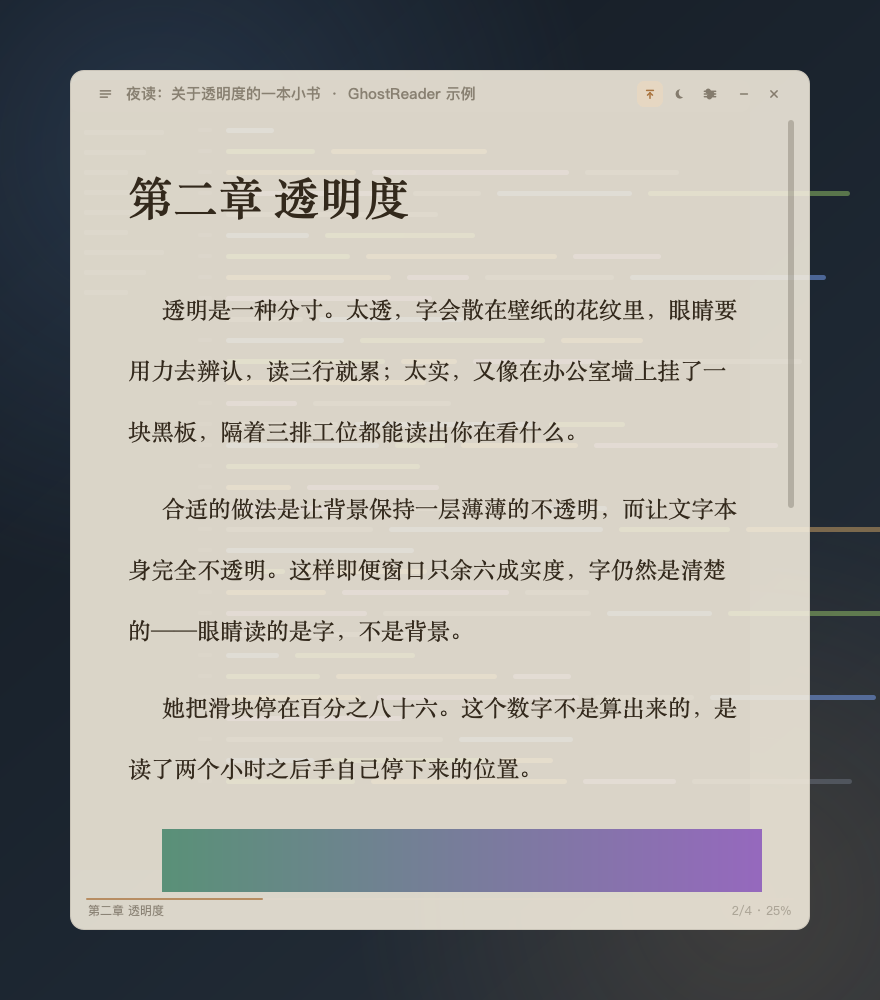
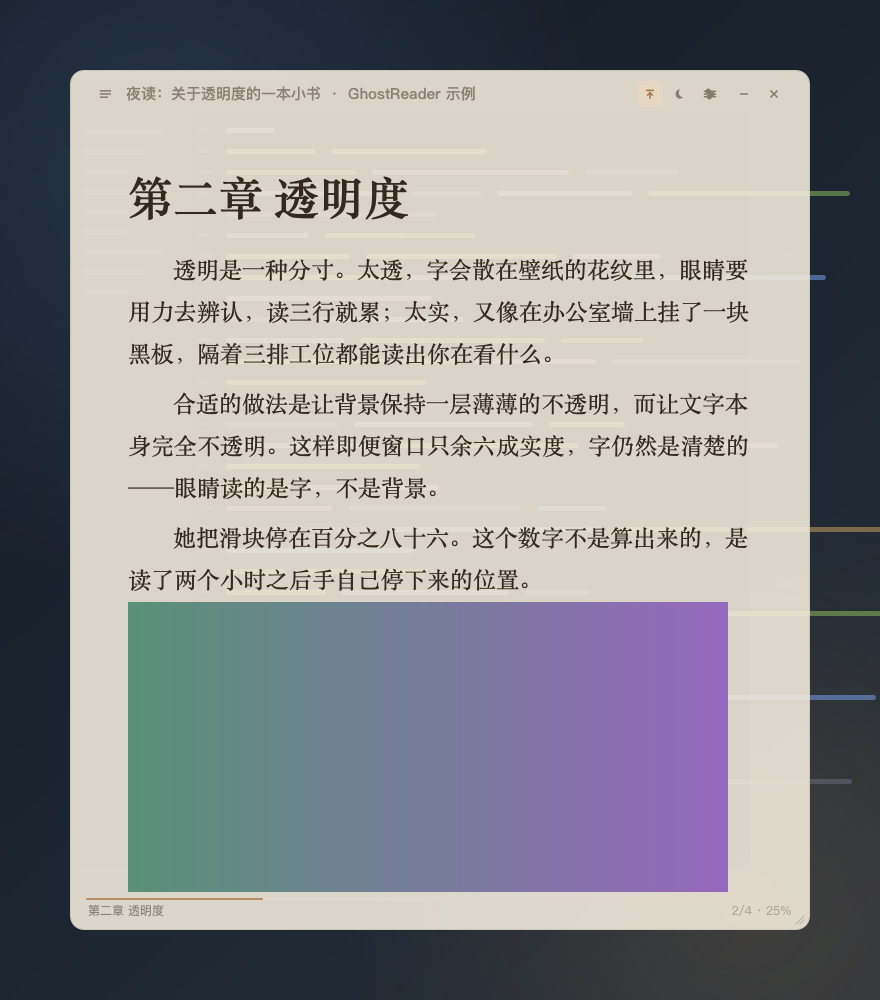
docs: 重写 README 并更新全部截图
- 按当前版本重写功能范围：整页翻页、字体不透明度、窗口宽高滑块、
  幽灵模式（背景全透明 + 鼠标移开隐没）、缩放手柄、单实例与双击打开
- 修正过时描述：删掉「滚动条常驻」「幽灵模式 55%」「离开自动淡化 42%」
  「幽灵文字默认跟随主题」等旧文案
- 透明度章节改为三个滑块的职责表，补充幽灵模式文字色建议
- 补充 Windows 安装与平台差异、项目结构（新增 bat/ico 等）
- 全部截图按当前版本重新生成（设置面板纸色、幽灵模式全透明背景）

Changed region(s): [[0.1227, 0.248, 0.8898, 0.899], [0.8898, 0.124, 0.9205, 0.496], [0.8284, 0.527, 0.8591, 0.558]]

diff --git a/tools/make_doc_image.py b/tools/make_doc_image.py
@@ -37,9 +37,10 @@ ANNOTATIONS = [
 
 def main() -> int:
     app = QApplication(sys.argv[:1])
-    src = QImage("/tmp/final_read.png")
+    src_path = Path(sys.argv[1]) if len(sys.argv) > 1 else ROOT / "docs" / "shots" / "read.png"
+    src = QImage(str(src_path))
     if src.isNull():
-        print("缺少底图，请先运行 tools/screenshot.py --state read")
+        print(f"缺少底图：{src_path}")
         return 1
 
     pad_r, pad_b, pad_t = 356, 60, 76
@@ -61,7 +62,7 @@ def main() -> int:
     p.drawText(
         QRectF(40, 50, 700, 20),
         Qt.AlignmentFlag.AlignLeft | Qt.AlignmentFlag.AlignVCenter,
-        "无边框半透明窗口 · 背景 88% 不透明度 · 正文文字始终不透明",
+        "无边框半透明窗口 · 背景 88% 不透明度 · 文字默认完全不透明（可单独调淡）",
     )
 
     p.drawImage(0, pad_t, src)

diff --git a/README.md b/README.md
@@ -1,7 +1,8 @@
 # GhostReader · 半透明隐身 EPUB 阅读器
 
 一款本地运行的桌面 EPUB 阅读器：窗口半透明、无边框、可一键隐没，正文排版按中文长文调优。
-纯 Python + PyQt6 实现，EPUB 解析只用标准库，不依赖任何电子书 SDK，也没有任何联网行为。
+
+纯 Python + PyQt6 实现，EPUB 解析只用标准库，不依赖任何电子书 SDK，**没有任何联网行为**。
 
 ![界面布局](docs/layout.png)
 
@@ -13,36 +14,37 @@
 
 | 能力 | 说明 |
 | --- | --- |
-| 格式 | EPUB 2 / EPUB 3 流式排版（`container.xml` → OPF → spine） |
-| 目录 | 解析 EPUB3 `nav` 与 EPUB2 `NCX`，支持层级与关键词过滤 |
-| 翻页 | 默认**整页翻页**（按行对齐，不切半行）：空格 / PageDown / 滚轮 / 点击左右两侧都能翻；可切回连续滚动 |
-| 章节 | 目录跳转、左右方向键翻章、书内链接跳转、翻到章末自动进下一章 |
+| 格式 | EPUB 2 / EPUB 3 流式排版（`container.xml` → OPF → spine），含 SVG 封面 |
+| 目录 | 解析 EPUB3 `nav` 与 EPUB2 `NCX`，按层级缩进，支持关键词过滤 |
+| 翻页 | 默认**整页翻页**：按行对齐，不会把一行切成两半；空格 / PageDown / 滚轮 / 点击左右两侧均可翻页，可切回连续滚动 |
+| 章节 | 目录跳转、`←` `→` 翻章、书内链接跳转、翻到章末自动进下一章、章首 PageUp 回上一章末尾 |
 | 进度 | 按书保存"章节 + 章内位置"，重启后回到原处；状态栏显示全书百分比 |
 | 配图 | 内嵌图片按正文栏宽等比缩放，窗口缩放后重新适配 |
-| 打开方式 | 文件对话框、拖拽 `.epub` 到窗口、命令行参数、双击 `.app` 关联 |
+| 打开方式 | 双击 `.epub`、拖到窗口、拖到应用图标、文件对话框、命令行参数 |
 
 ### 1.2 外观（全部实时生效）
 
-- **字体**：从系统可用字体中挑选（默认宋体 `Songti SC`），可换黑体/楷体/西文衬线。
-- **字号** 11–40 pt；**行距** 120%–240%；**首行缩进** 开关（中文两字）。
-- **正文栏宽** 360–1200 px、**页边距** 12–120 px：窗口变宽时只增加留白，不把一行拉长。
-- **窗口宽度 / 高度**：设置面板里直接拖，拖窗口边缘时滑块会跟着变；上限自动限制在屏幕可用区域内。
-- **背景色**：羊皮纸 / 素白 / 护眼绿 / 暗夜 / 纯黑 五套预设。
-- **背景不透明度** 15%–100%，**整窗不透明度** 30%–100%，**字体不透明度** 25%–100%，三者独立。
-- **低透明度自动补底**：背景透明度越低，纸面自动越实，保证文字不糊（见 §4.1）。
+| 分组 | 可调项 |
+| --- | --- |
+| 翻页 | 整页翻页 / 连续滚动 |
+| 字体 | 字体族（默认 `Songti SC`，Windows 回退 `Microsoft YaHei`）、字号 11–40 pt、行距 120%–240%、首行缩进开关 |
+| 排版 | 正文栏宽 360–1200 px、页边距 12–120 px（窗口变宽只增加留白，不把一行拉长） |
+| 窗口 | 窗口宽度 380–屏幕宽、高度 300–屏幕高（滑块与拖拽边缘双向同步） |
+| 透明 | 背景不透明度 15%–100%、整窗不透明度 30%–100%、**字体不透明度 25%–100%**，三者独立 |
+| 配色 | 羊皮纸 / 素白 / 护眼绿 / 暗夜 / 纯黑 五套预设 |
 
 ### 1.3 隐身
 
 | 能力 | 说明 |
 | --- | --- |
-| 无边框半透明窗口 | 圆角卡片，无系统标题栏，不显示任何阅读类界面元素 |
+| 无边框半透明窗口 | 圆角卡片自绘，没有系统标题栏 |
 | 一键隐藏 | 全局热键 / `Esc` / 托盘，窗口从屏幕与任务栏消失，再按一次原位恢复 |
-| 幽灵模式 | 背景彻底透明，只剩文字浮在桌面上；鼠标移开整窗隐没，移回即显形 |
-| 幽灵模式目录 | 幽灵模式下仍保留 ☰ 按钮，可直接选章节；抽屉打开时窗口不会隐没 |
-| 点击穿透 | 鼠标事件穿过窗口落到下层应用，适合"贴在屏幕角落"阅读 |
-| 防录屏 / 截图 | macOS `NSWindow.sharingType=None`、Windows `WDA_EXCLUDEFROMCAPTURE` |
+| 幽灵模式 | **背景彻底透明**，只剩文字浮在桌面上；鼠标移开整窗隐没（`opacity=0`），移回即显形 |
+| 幽灵模式目录 | 幽灵模式下保留 `☰` 按钮，可直接选章节；抽屉打开期间窗口不隐没 |
+| 点击穿透 | 鼠标事件穿到下层应用；未授权全局热键时禁止开启，避免把自己锁死 |
+| 防录屏 / 截图 | macOS `NSWindow.sharingType = None`、Windows `WDA_EXCLUDEFROMCAPTURE` |
 | 窗口置顶 | 始终浮于其他窗口之上 |
-| 位置记忆 | 记住窗口位置、尺寸与每本书的阅读进度 |
+| 位置记忆 | 记住窗口位置、尺寸、每本书的阅读进度；窗口跑到屏幕外可一键重置 |
 
 > 定位说明：这些能力用于**减少阅读对同事与屏幕共享的干扰**，不涉及、也不提供任何规避企业审计或监控的功能。
 
@@ -51,7 +53,7 @@
 - 带 DRM 的电子书（Adobe ADEPT、Kindle 等）。
 - 固定版式 EPUB（`rendition:layout=pre-paginated`）、漫画/画册类以图为主的排版。
 - EPUB 内复杂 CSS（多栏、绝对定位、自定义字体文件）会被简化为流式文本。
-- 全文检索、批注、多书书架（当前只记录"上一本"）。
+- 全文检索、批注、多书书架（只记录"上一本"）。
 
 ---
 
@@ -61,31 +63,31 @@
 
 ```
 ┌───────────────────────────────────────────────┐
-│ ☰  书名 · 作者              置顶 ☾ ⚙ － ✕    │  ← ① 标题栏 40px
+│ ☰  书名 · 作者           置顶 ☾ ⚙ － ✕       │  ← ① 标题栏 40px
 ├───────────────────────────────────────────────┤
 │                                               │
 │   第二章 透明度                               │  ← ② 正文区
 │                                               │     栏宽 720px 居中
 │   透明是一种分寸。太透，字会散在壁纸的花纹里…  │     两侧留白随窗口增长
 │                                               │
-│                                               │  ← ③ 滚动条（10px，低对比）
+│                                               │
 ├───────────────────────────────────────────────┤
-│ 第二章 透明度                    2/4 · 25%    │  ← ④ 状态栏 26px
+│ 第二章 透明度                    2/4 · 25%    │  ← ③ 状态栏 26px
 └───────────────────────────────────────────────┘
-   ↑ 窗口外缘 10px 为拖拽缩放判定区
+  ↑ 窗口外缘 10px 为拖拽缩放判定区，右下角有三条斜线手柄
 ```
 
-- **① 标题栏**：左端目录按钮，中间书名与作者（过长省略），右端依次为置顶、幽灵模式、外观设置、最小化、关闭。整条可拖动窗口，双击切换幽灵模式。
-- **② 正文区**：唯一的内容层。文字始终完全不透明，只有背景参与透明。
-- **③ 滚动条**：默认近乎隐形，悬停时加深，不打断阅读。
-- **④ 状态栏**：左为当前章节名，右为"第几节 / 共几节 · 全书百分比"，顶部 2px 细线是进度条。
-- **抽屉**：目录从左侧滑入（292px），外观设置从右侧滑入（316px），都覆盖在正文之上，`Esc` 关闭。
+- **① 标题栏**：左端目录，中间书名与作者（过长省略），右端依次为置顶、幽灵模式、外观设置、最小化、关闭。整条可拖动，双击切换幽灵模式。
+- **② 正文区**：唯一的内容层。文字默认完全不透明，可用「字体不透明度」单独调淡。
+- **③ 状态栏**：左为当前章节名，右为"第几节 / 共几节 · 全书百分比"，顶部 2px 细线是进度条。
+- **抽屉**：目录从左侧滑入（292px），外观设置从右侧滑入（316px），覆盖在正文之上，`Esc` 关闭。
+- **翻页模式下不显示滚动条**；切到连续滚动时自动出现。
 
 | 目录抽屉 | 外观设置 | 幽灵模式 |
 | --- | --- | --- |
 | ![目录](docs/shots/toc.png) | ![设置](docs/shots/settings.png) | ![幽灵](docs/shots/ghost.png) |
 
-暗色主题下窗口几乎与深色桌面融为一体：
+幽灵模式：背景完全透明，只有文字浮在桌面上，鼠标移开整窗隐没。暗色主题下几乎与深色桌面融为一体：
 
 ![暗夜主题](docs/shots/dark.png)
 
@@ -98,14 +100,15 @@
 | 操作 | 结果 |
 | --- | --- |
 | 拖标题栏 | 移动窗口 |
-| 拖窗口任意边缘 6px | 调整大小（8 个方向） |
+| 拖窗口四边 / 四角 / 右下角手柄 | 调整大小 |
 | 滚轮 | 整页翻页（连续滚动模式下为滚动） |
-| 点击正文左 1/3 | 上一页 |
-| 点击正文右 1/3 | 下一页 |
+| 点击正文**左 1/3** | 上一页 |
+| 点击正文**右 1/3** | 下一页 |
+| 点击正文中间 1/3 | 不翻页，留给选中文字 |
 | `Ctrl/⌘` + 滚轮 | 直接调字号 |
 | 双击标题栏 | 进入 / 退出幽灵模式 |
 | 单击托盘图标 | 显示 / 隐藏窗口 |
-| 右键托盘图标 | 菜单：打开、幽灵模式、置顶、设置、退出 |
+| 右键托盘图标 | 打开、幽灵模式、置顶、点击穿透、设置、重置窗口位置、退出 |
 | 拖 `.epub` 进窗口 | 打开该书 |
 
 ### 3.2 键盘（窗口聚焦时）
@@ -113,7 +116,7 @@
 | 按键 | 作用 |
 | --- | --- |
 | `Space` / `PageDown` / `J` | 下一页 |
-| `PageUp` / `K` | 上一页 |
+| `PageUp` / `K` | 上一页（章首再按回上一章末尾） |
 | `↑` `↓` | 按行滚动 |
 | `←` `→` | 上一章 / 下一章 |
 | `Home` / `End` | 章首 / 章末 |
@@ -123,32 +126,33 @@
 
 ### 3.3 全局热键（窗口未聚焦、甚至已隐藏时也可用）
 
-| 组合 | 作用 | 说明 |
-| --- | --- | --- |
-| `⌘⇧H` / `Ctrl+Shift+H` | **隐藏 / 显示** | 核心"老板键"，按一下整窗消失 |
-| `⌘⇧G` / `Ctrl+Shift+G` | 幽灵模式 | 背景全透明，鼠标移开即隐没 |
-| `⌘⇧J` / `Ctrl+Shift+J` | 点击穿透 | 鼠标可点穿到下层 |
-| `⌘⇧T` / `Ctrl+Shift+T` | 置顶开关 | |
-| `⌘⇧L` / `Ctrl+Shift+L` | 目录 | |
-| `⌘⇧K` / `Ctrl+Shift+K` | 外观设置 | |
-| `⌘⇧=` / `⌘⇧-` | 字号 ±1 | |
-| `⌘⇧↑` / `⌘⇧↓` | 背景不透明度 ±5% | |
-| `⌘⇧←` / `⌘⇧→` | 正文栏宽 ±40px | |
+| 组合 | 作用 |
+| --- | --- |
+| `⌘⇧H` / `Ctrl+Shift+H` | **隐藏 / 显示**（核心"老板键"） |
+| `⌘⇧G` / `Ctrl+Shift+G` | 幽灵模式 |
+| `⌘⇧J` / `Ctrl+Shift+J` | 点击穿透 |
+| `⌘⇧T` / `Ctrl+Shift+T` | 置顶开关 |
+| `⌘⇧L` / `Ctrl+Shift+L` | 目录 |
+| `⌘⇧K` / `Ctrl+Shift+K` | 外观设置 |
+| `⌘⇧=` / `⌘⇧-` | 字号 ±1 |
+| `⌘⇧↑` / `⌘⇧↓` | 背景不透明度 ±5% |
+| `⌘⇧←` / `⌘⇧→` | 正文栏宽 ±40px |
 
-> 全局热键依赖 `pynput`。macOS 首次使用需在 **系统设置 → 隐私与安全性 → 辅助功能** 中勾选终端（或 GhostReader.app）；未授权时自动降级为"仅窗口内快捷键"，功能不受影响，只是隐藏后需要点托盘图标恢复。
+> 全局热键依赖 `pynput`。macOS 需在 **系统设置 → 隐私与安全性 → 辅助功能** 中勾选 GhostReader；未授权时自动降级为"仅窗口内快捷键"，隐藏后点托盘图标恢复。Windows 无需授权。
 
 ---
 
-## 4. 默认参数建议
+## 4. 默认参数与建议
 
-### 4.1 透明度：默认 **背景 88% + 整窗 100%**
+### 4.1 三个透明度滑块
 
-两个滑块解决的是两件事，建议分开理解：
+| 滑块 | 默认 | 管什么 |
+| --- | --- | --- |
+| **背景不透明度** | 88% | 只让"纸"透明，文字保持实色。日常调这个 |
+| **整窗不透明度** | 100% | 连文字一起淡，用于整体退到背景里 |
+| **字体不透明度** | 100% | 只让字变淡，背景不变。幽灵模式下字太实时调这个 |
 
-- **背景不透明度**：只让"纸"变透明，文字本身始终 100% 实色。这是日常该调的那个。
-- **整窗不透明度**：连文字一起变淡，只在"幽灵模式"这类需要整体退到背景里的场景使用。
-
-为什么默认 88% 而不是更透？按默认羊皮纸 `#F4EDDF` 与文字 `#33291C` 实测（WCAG 对比度，最坏情况是深色桌面）：
+为什么背景默认 88%？按默认羊皮纸 `#F4EDDF` 与文字 `#33291C` 实测（WCAG 对比度，最坏情况是深色桌面）：
 
 | 背景不透明度 | 深色桌面上的正文对比度 | 观感 |
 | --- | --- | --- |
@@ -156,28 +160,24 @@
 | **88%（默认）** | **9.7 : 1** | 能看出身后有东西，但字依然锐利 |
 | 80% | 8.3 : 1 | 透视明显，仍轻松可读 |
 | 70% | 6.6 : 1 | 长读开始费眼 |
-| 55% | 4.7 : 1 | 只适合扫一眼 |
 | 50% | 4.0 : 1 | 低于 WCAG AA |
 
-结论与建议：
+建议：
 
-- **日常默认 88%**：明显低于 AAA 门槛（7:1）以下才开始吃力，88% 留足余量，同时保留"这是半透明窗口"的观感。
-- 桌面是浅色（文档、白底网页）时，透明几乎不损耗对比度，可以放心降到 80–85%，隐蔽性更好。
-- 桌面是深色 IDE / 壁纸时，建议 85–90%，并保持"低透明度自动补底"开启。
-- **整窗不透明度保持 100%**，把"整体变淡"交给幽灵模式（55%）与离开自动淡化（42%）。
-- 幽灵模式 55% 在深色桌面上约 4.7:1，属于"瞥一眼能读、不适合久读"的档位，符合它的用途。
+- 桌面浅色（白底文档）时透明几乎不损耗对比度，可以降到 80–85%，隐蔽性更好。
+- 桌面深色（IDE / 深色壁纸）时建议 85–90%，并保持「低透明度自动补底」开启。
+- 想要"几乎看不见纸"的效果：背景降到 15–30%，同时把**字体不透明度**降到 60–70%，字就不会显得突兀。
+- 幽灵模式不受这些滑块影响，它固定是"背景全透明 + 鼠标移开整窗隐没"。
 
 ### 4.2 热键：默认 `⌘⇧H`
 
 选键遵循三条原则：**单手可按、不与系统冲突、误触代价低**。
 
-1. **`⌘⇧H` 隐藏**：`H` = Hide，`⌘⇧` 前缀在 macOS 上几乎不与系统快捷键冲突（`⌘H` 是系统"隐藏应用"，`⌘Q` 是退出，都不能用）。
-2. **四个全局键集中在左手区**：`H`/`G`/`J`/`T` 相邻，左手小指按 `⌘⇧`，食指在 H–J 之间移动，视线不必离开文字。
-3. **`⌘⇧J` 给点击穿透**：穿透开启后窗口收不到鼠标事件，必须靠热键退出，所以把它放在 `H` 右边一格，且不与隐藏键相邻误触。
-4. **窗口内快捷键统一 `⌘⇧` 前缀**，与全局键同族，肌肉记忆一致；方向键组合留给"连续微调"（透明度、栏宽）。
-5. **`Esc` 做兜底**：先关抽屉、再隐藏窗口，任何时候连按两次 `Esc` 一定回到"什么都没有"的状态。
-
-如果你更习惯 Windows 式组合，改 `ghostreader/window.py` 顶部的 `qt_sequence()` 与 `pynput_hotkeys()` 两张表即可，界面提示文字会跟着变。
+1. **`⌘⇧H` 隐藏**：`H` = Hide。`⌘H` 是系统"隐藏应用"、`⌘Q` 是退出，都不能用。
+2. **四个全局键集中在左手区**：`H`/`G`/`J`/`T` 相邻，小指按 `⌘⇧`，食指在 H–J 之间移动，视线不必离开文字。
+3. **`⌘⇧J` 给点击穿透**：穿透后窗口收不到鼠标事件，只能靠热键退出，所以放在 `H` 右边一格，且不与隐藏键相邻。
+4. **`Esc` 兜底**：先关抽屉、再隐藏窗口，连按两次一定回到"什么都没有"。
+5. 想换键改 `ghostreader/window.py` 顶部的 `qt_sequence()` 与 `pynput_hotkeys()` 两张表，界面提示会跟着变。
 
 ### 4.3 其他默认值
 
@@ -187,59 +187,61 @@
 | 正文栏宽 | 720 px | 约 30–34 字/行，减少视线折返 |
 | 页边距 | 44 px | 与栏宽配合，窗口变窄时不挤字 |
 | 首行缩进 | 开 | 中文段落习惯 |
-| 窗口尺寸 | 760 × 880 | 竖排阅读比例，占屏约 1/3 |
+| 翻页方式 | 整页翻页 | 不露半行，接近纸质书 |
+| 窗口尺寸 | 760 × 860 | 竖排阅读比例，占屏约 1/3 |
 | 默认位置 | 屏幕右侧偏上 | 避开工作区中央，减少被余光扫到 |
 | 置顶 | 开 | 切换窗口时不丢失阅读位置 |
-| 幽灵模式文字 | 跟随主题 | 默认就是正文色；桌面太深看不清时可切「浅色」 |
+| 幽灵模式文字 | 浅灰白 `#C9C5BD` | 深色桌面上正文色会和背景糊在一起，浅灰白能看清又不刺眼 |
 
 ---
 
 ## 5. 安装与运行
 
-### 装成 macOS 应用（推荐）
+### macOS（已实测）
 
 ```bash
 ./install_macos.sh                              # 装到 ~/Applications/GhostReader.app
 ./install_macos.sh /Applications/GhostReader.app
 ```
 
-脚本会用 PyInstaller 打出一个真正的 app bundle（约 79 MB，自带解释器），并补上 EPUB 文档类型声明、重新做 ad-hoc 签名。**必须是真 bundle**：用 shell 包装 Python 的假 .app 收不到 macOS 的「用本应用打开」事件，双击 EPUB 会打不开。
+脚本用 PyInstaller 打出真正的 app bundle（约 79 MB，自带解释器），并补上 EPUB 文档类型声明、重新 ad-hoc 签名。**必须是真 bundle**：用 shell 包装 Python 的假 `.app` 收不到 macOS 的「用本应用打开」事件，双击 EPUB 会打不开。
 
 装好之后：
 
 - 双击图标启动；
 - **双击任意 `.epub` 直接打开**（首次可能需要在「打开方式」里选一次 GhostReader）；
 - 把 `.epub` 拖到图标上也能打开；
-- 已运行时再双击另一本，会在同一个窗口里切换，不会开出第二个实例。
+- 已运行时再双击另一本，在同一个窗口里切换，不会开出第二个实例。
 
-首次使用全局热键，需要在 **系统设置 → 隐私与安全性 → 辅助功能** 里勾选 GhostReader。没授权也能用，只是 `⌘⇧H` 仅在窗口聚焦时生效，隐藏后点菜单栏托盘图标恢复。
+首次使用全局热键，需在 **系统设置 → 隐私与安全性 → 辅助功能** 里勾选 GhostReader。
 
-### 装成 Windows 程序
+### Windows（脚本已备，未在真机实测）
 
 ```bat
-build_windows.bat
+build_windows.bat        :: 打包 → dist\GhostReader\GhostReader.exe
+run.bat                  :: 开发模式直接跑
 ```
 
-生成 `dist\GhostReader\GhostReader.exe`（整个 `dist\GhostReader` 目录可直接拷走）。开发调试用 `run.bat`。
+Windows 差异：
 
-Windows 上的差异：
-
-- 全局热键用 `Ctrl+Shift+H / G / J / T`，**不需要**任何授权
-- 防录屏走 `SetWindowDisplayAffinity(WDA_EXCLUDEFROMCAPTURE)`，需 Windows 10 2004 及以上
+- 全局热键 `Ctrl+Shift+H / G / J / T`，**不需要任何授权**
+- 防录屏走 `SetWindowDisplayAffinity(WDA_EXCLUDEFROMCAPTURE)`，需 Windows 10 2004+
 - 配置在 `%APPDATA%\GhostReader\settings.json`，日志在 `%LOCALAPPDATA%\GhostReader\Logs\`
-- 窗口半透明、无边框、置顶、托盘均由 Qt 跨平台实现；未在 Windows 真机上实测，如有异常请提 issue
+- `.epub` 文件关联需手动在「默认应用」里设置
 
-### 开发模式运行
+### 开发模式
 
 ```bash
-./run.sh                 # 首次会自动建 .venv 并装依赖
+./run.sh                 # 首次自动建 .venv 并装依赖
 ./run.sh 某本书.epub
 python main.py --alpha 0.8 --ghost --no-global-hotkey
 ```
 
+---
+
 ## 6. 配置文件
 
-设置与进度保存在用户目录，纯 JSON，可直接手改：
+纯 JSON，可直接手改：
 
 | 平台 | 路径 |
 | --- | --- |
@@ -253,11 +255,11 @@ python main.py --alpha 0.8 --ghost --no-global-hotkey
 
 ## 7. 已知限制
 
-- **全局热键授权**：macOS 未授予辅助功能权限时，隐藏后只能点托盘图标恢复（界面会有提示）；点击穿透也会被拒绝开启，避免把自己锁死。
-- **窗口跑到屏幕外**：如果拔掉外接屏导致窗口不可见，托盘菜单里有「重置窗口位置」。
-- **防录屏**：macOS 走 `NSWindow.sharingType`，对系统截图/录屏与多数会议软件有效，但用手机拍屏、外接采集卡无效；Windows 需 10.2004 以上。
+- **全局热键授权**：macOS 未授予辅助功能权限时，隐藏后只能点托盘图标恢复；点击穿透也会被拒绝开启。
+- **防录屏**：macOS 走 `NSWindow.sharingType`，对系统截图/录屏与多数会议软件有效，但手机拍屏、外接采集卡无效；Windows 需 10.2004+。
+- **幽灵模式的文字色**：默认浅灰白，适合深色桌面。桌面是白底文档时请切到「深灰」，否则会看不清。
 - **进度按文件名记录**：不同目录下的同名 EPUB 会共用进度。
-- **超长单章**：一章数万字时首次排版约 100–300 ms，之后滚动流畅。
+- **超长单章**：一章数万字时首次排版约 100–300 ms。
 - **Qt 富文本限制**：不支持 CSS 多栏、绝对定位、Web 字体；表格与代码块按简化样式呈现。
 
 ---
@@ -266,21 +268,24 @@ python main.py --alpha 0.8 --ghost --no-global-hotkey
 
 ```
 GhostReader/
-├── main.py                  入口、命令行参数、单实例与 FileOpen 事件
+├── main.py                  入口、命令行参数、单实例、FileOpen 事件、崩溃日志
 ├── ghostreader/
 │   ├── epub.py              EPUB 解包、OPF/NCX/Nav 解析、XHTML 净化
-│   ├── reader.py            富文本阅读视图、排版、分页、插图适配
-│   ├── window.py            无边框半透明主窗口、托盘、热键、状态机
+│   ├── reader.py            富文本视图、CSS 排版、整页翻页、插图适配
+│   ├── window.py            无边框半透明主窗口、托盘、热键、幽灵模式、手动缩放
 │   ├── widgets.py           矢量图标、滑杆、开关、抽屉、提示气泡
-│   ├── settings.py          配置模型与持久化
+│   ├── settings.py          配置模型、持久化、版本迁移
 │   ├── single_instance.py   单实例与参数转发（QLocalServer）
 │   └── stealth.py           防录屏、点击穿透、全局热键
 ├── tools/
 │   ├── make_sample_epub.py  生成自测用示例书
-│   ├── screenshot.py        离屏渲染截图（用于视觉回归）
+│   ├── screenshot.py        离屏渲染截图（无显示器环境下的视觉回归）
 │   ├── make_doc_image.py    生成界面标注图
-│   ├── patch_bundle.py      给打包出的 .app 补文档类型并重签名
-│   └── make_icon.py         生成应用图标
+│   ├── make_icon.py         生成 png / ico / icns 图标
+│   └── patch_bundle.py      给打包出的 .app 补文档类型并重签名
+├── install_macos.sh         macOS 打包安装
+├── build_windows.bat        Windows 打包
+├── run.sh / run.bat         开发模式启动
 ├── samples/night-reading.epub
 └── docs/
 ```
@@ -288,6 +293,7 @@ GhostReader/
 几个关键取舍：
 
 - **不用 WebEngine**：改用 `QTextBrowser` 富文本渲染，启动快、内存小（约 80 MB），且天然支持"文字不透明 + 背景半透明"的分层绘制。
-- **自写 EPUB 解析**：只用 `zipfile` + `xml.etree` + `html.parser`，把 XHTML 压平成 Qt 能稳定渲染的标签子集，避免引入 ebooklib 一类依赖。
+- **排版交给 CSS**：Qt 富文本支持 `text-indent` / `line-height` / `margin` / `font-size`，但不支持 `body` 继承、`em`、百分比字号——所以字号用 pt、缩进用 px，全部算好后拼进样式表，改字号只需重排当前章节。
+- **自写 EPUB 解析**：只用 `zipfile` + `xml.etree` + `html.parser`，把 XHTML 压平成 Qt 能稳定渲染的标签子集。
 - **单层卡片绘制**：背景一次画成圆角卡片，低透明度时用"内层纸面"补实，避免出现"色块接缝"。
-- **离屏截图回归**：`tools/screenshot.py` 可在无显示器环境下渲染窗口并合成到模拟桌面上，用来检查透明与排版。
+- **离屏截图回归**：`tools/screenshot.py` 可在无显示器环境下渲染窗口并合成到模拟桌面上，用来检查透明度、排版与配色——本文档里的截图都是它生成的。
